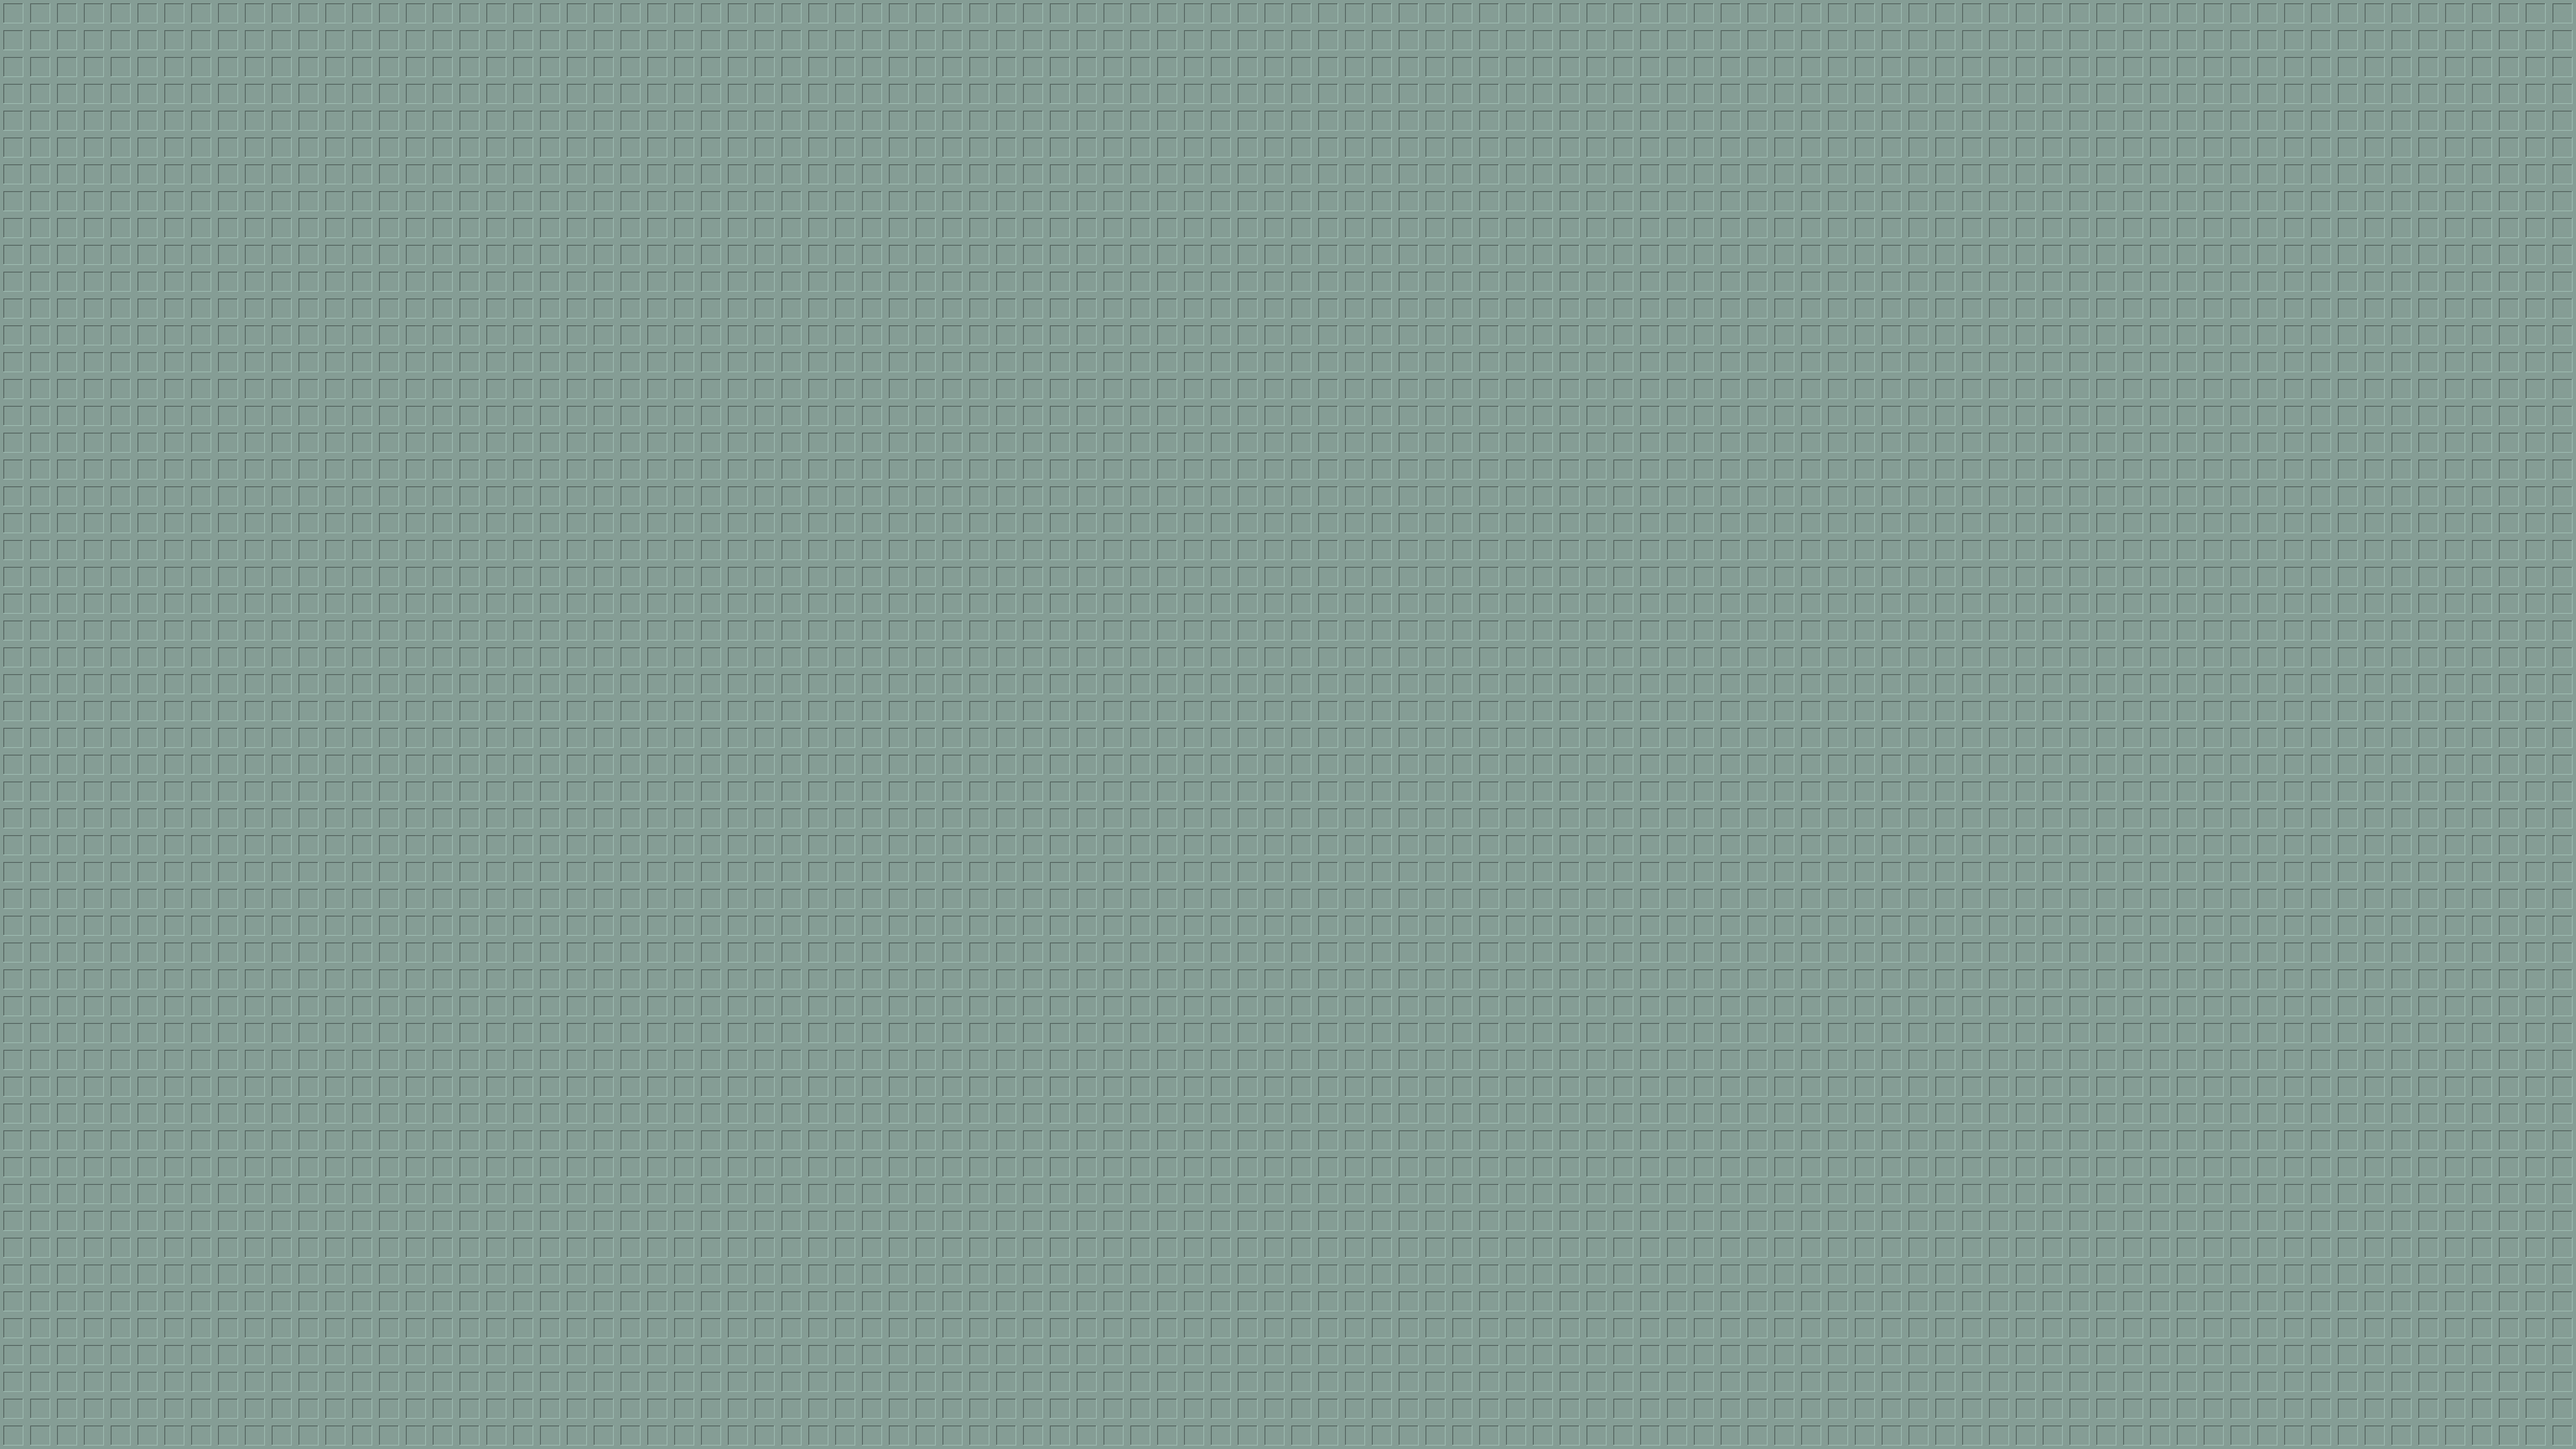
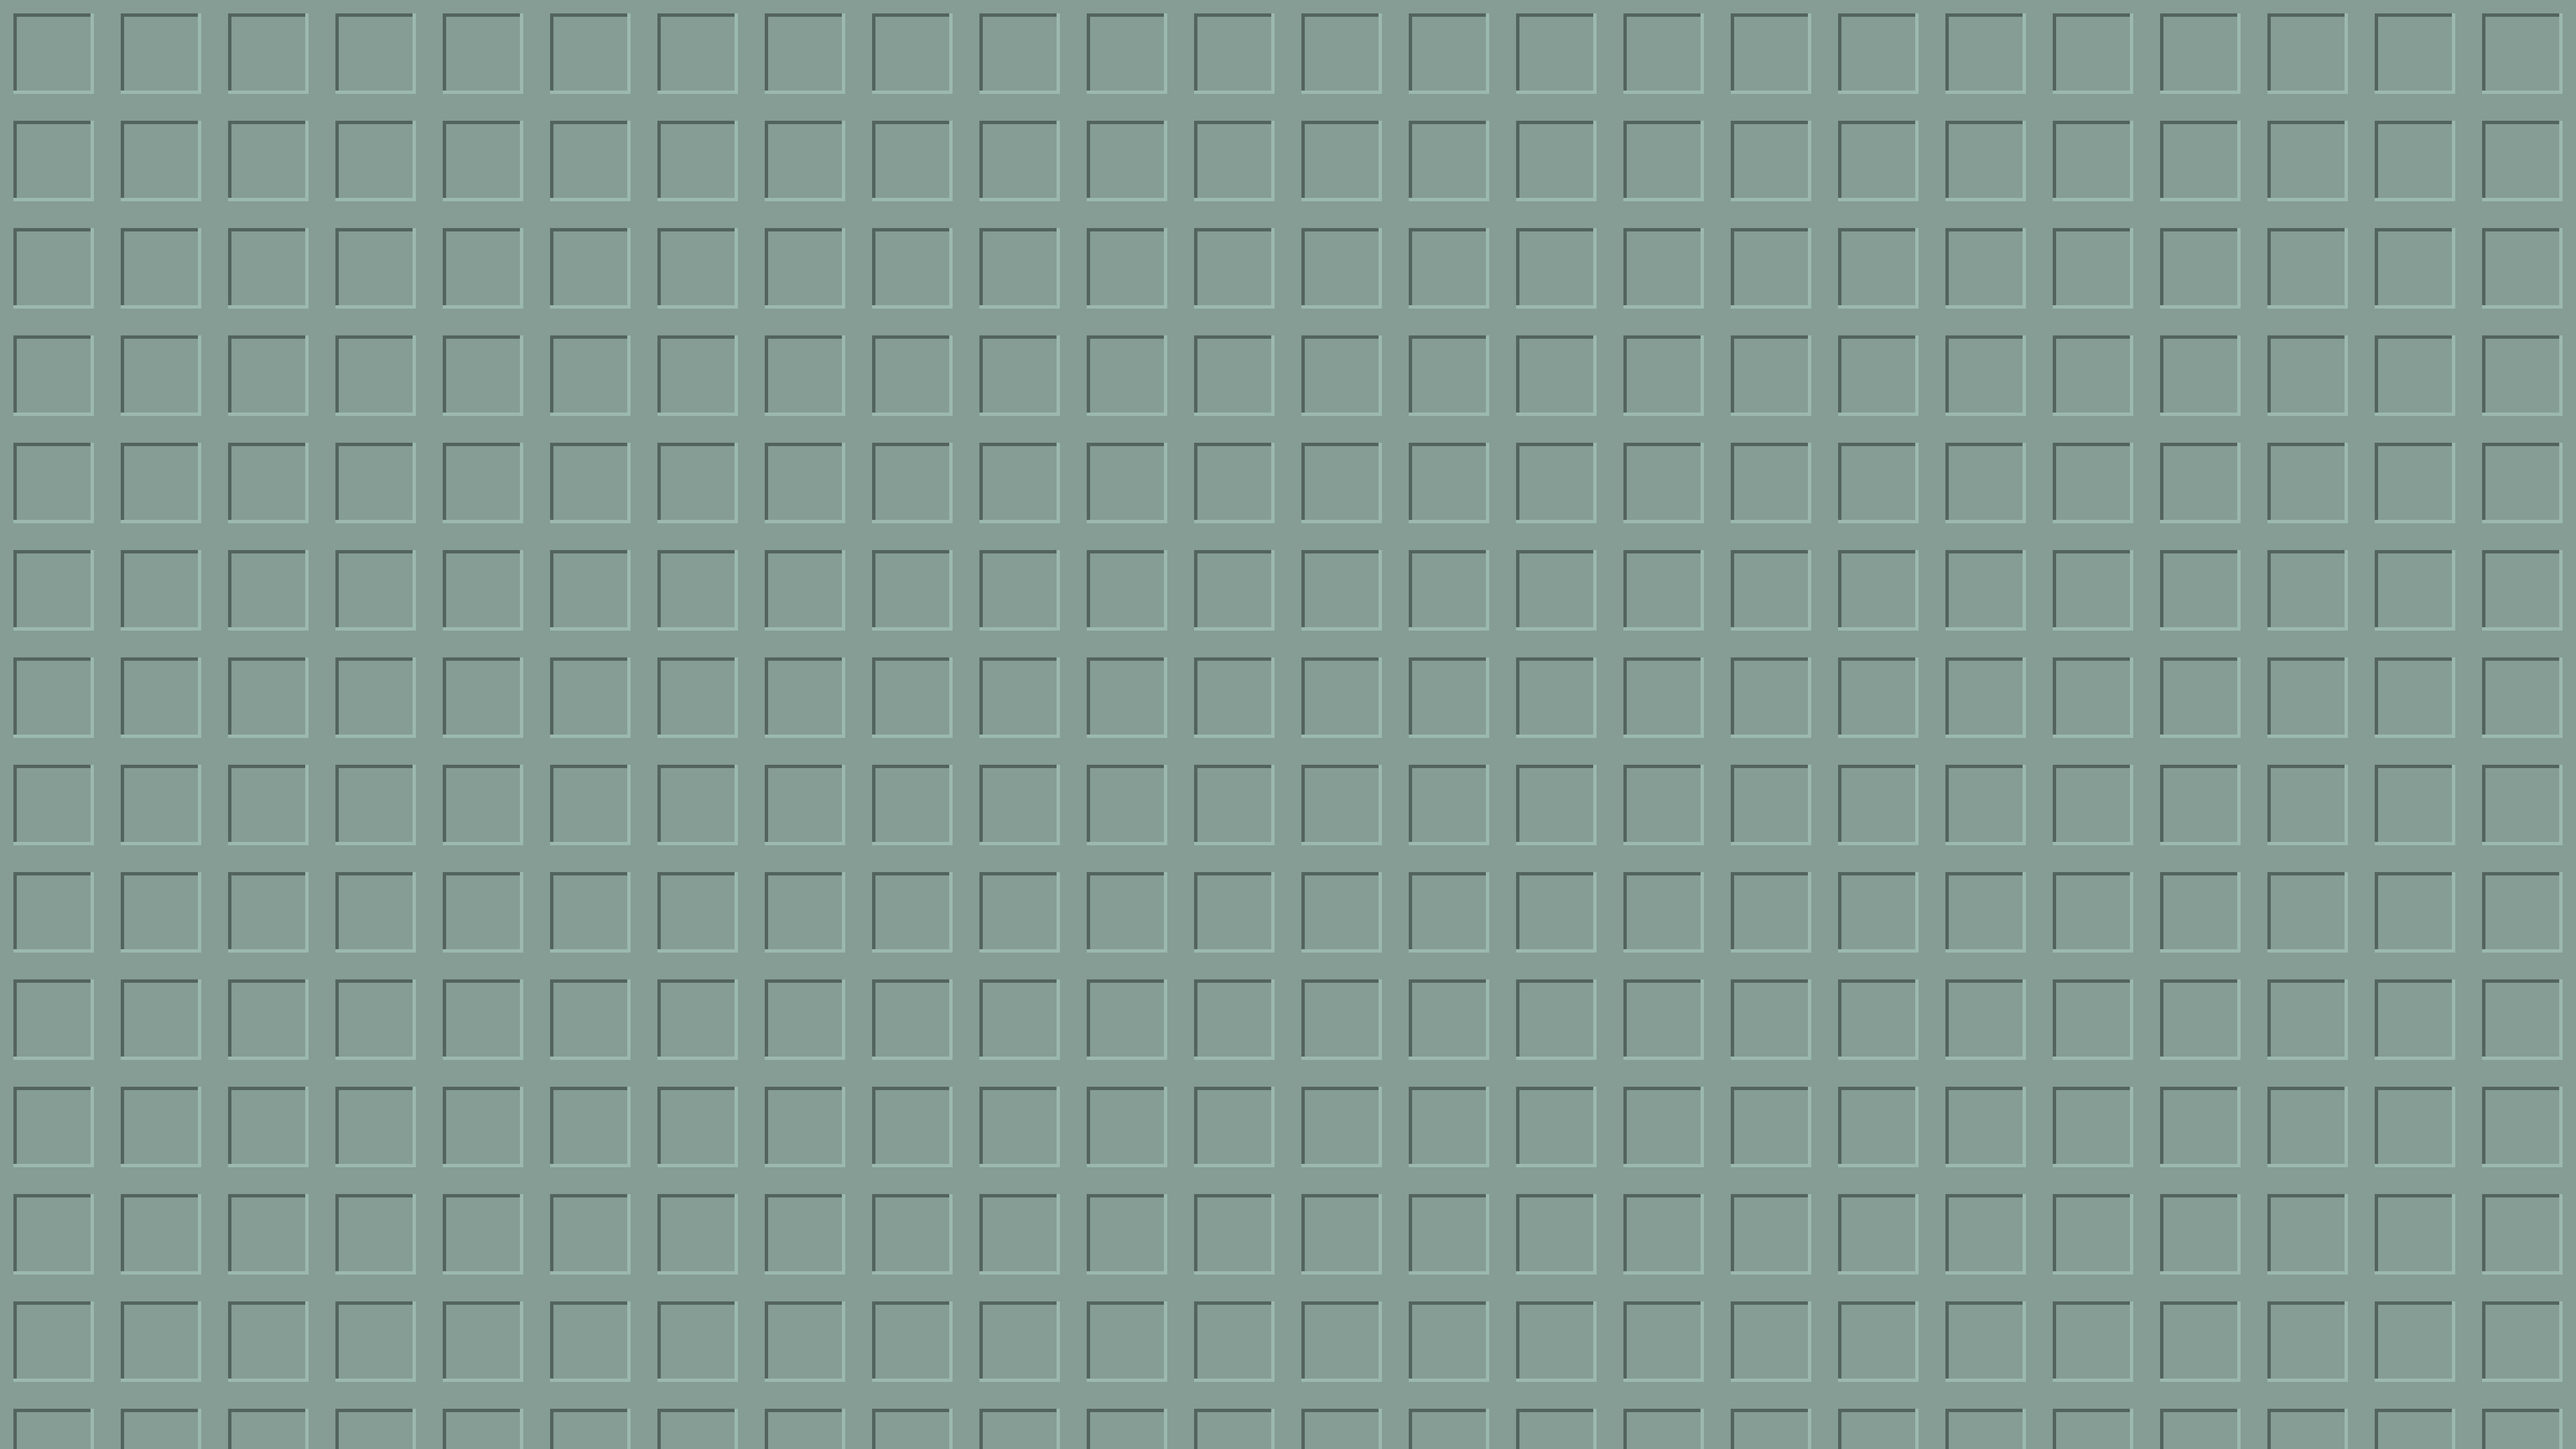
Refresh Solstice Crimson showcase and wallpapers

Changed region(s): [[0.0, 0.0, 1.0, 1.0]]

diff --git a/README.md b/README.md
@@ -59,12 +59,12 @@ Full provenance in [`palette.txt`](palette.txt).
 
 ## Wallpapers
 
-Fourteen procedurally-generated backdrops in `backgrounds/` (6K, downscale
-cleanly), rendered from [NsCDE](https://github.com/NsCDE/NsCDE) XPM tile
-patterns with the Motif colorset derived from this palette's chrome
-(`bg #9CB9AF`, `ts #D5E1DD`, `bs #53635E`, `sel #859D95`): **Solyaris, Dimple,
-Dune, Swirl, Squares, Marble, Toronto, SandLight, CircuitBoards, Lattice,
-Concave, Convex, PinStripe, Bark**. Regenerate with
+Fourteen procedurally-generated backdrops in `backgrounds/` (6K), rendered at
+an 8× tile scale from [NsCDE](https://github.com/NsCDE/NsCDE) XPM patterns
+with the Motif colorset derived from this palette's chrome (`bg #9CB9AF`,
+`ts #D5E1DD`, `bs #53635E`, `sel #859D95`): **Solyaris, Dimple, Dune, Swirl,
+Squares, Marble, Toronto, SandLight, CircuitBoards, Lattice, Concave, Convex,
+PinStripe, Bark**. Regenerate them with
 [circumspace/scripts `gen-cde-wallpapers`](https://github.com/circumspace/scripts).
 
 ## License
